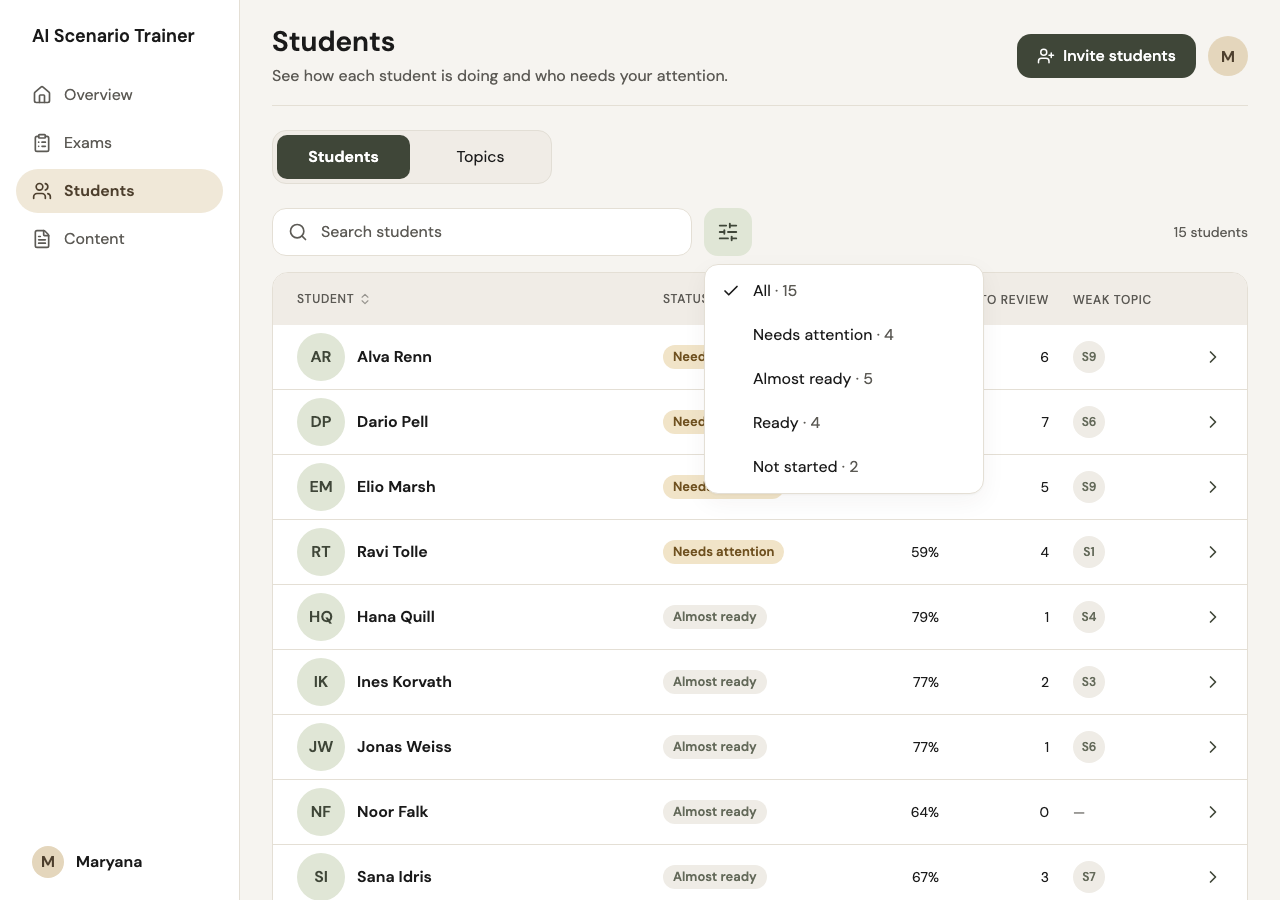
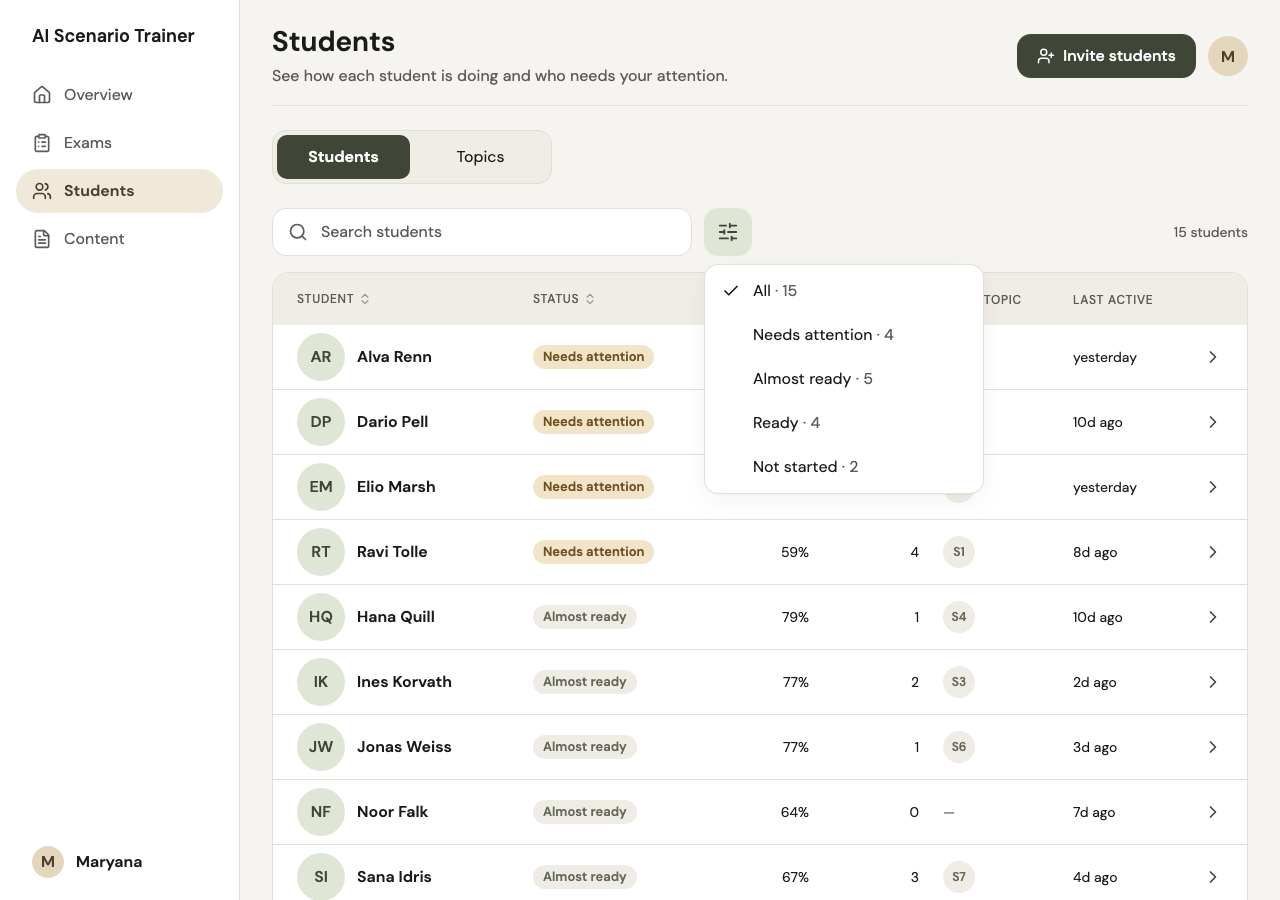
test: checks, pictures and docs for the student detail and the leftovers

diff --git a/e2e/visual/desktop-detail.spec.ts b/e2e/visual/desktop-detail.spec.ts
@@ -1,0 +1,239 @@
+import { expect, test } from "@playwright/test";
+import type { Page } from "@playwright/test";
+import { prepare } from "./routes";
+
+/** The student detail, the topic students table and the small leftovers (DESIGN.md: Responsive instructor, step 4). */
+test.use({ reducedMotion: "reduce" });
+
+const detail = "/instructor/students/stu-02";
+const open = async (page: Page, width: number, path: string, ready = "[data-student-header]") => {
+  await page.setViewportSize({ width, height: 900 });
+  await prepare(page, "instructor");
+  await page.goto(path);
+  await page.locator(ready).first().waitFor();
+  await page.waitForTimeout(300);
+};
+const summary = (page: Page) =>
+  page.evaluate(() => ({
+    name: document.querySelector("[data-student-name]")?.textContent,
+    field: document.querySelector("[data-field-line]")?.textContent,
+    last: document.querySelector("[data-last-active]")?.textContent,
+    readiness: document.querySelector("[data-readiness-number]")?.textContent,
+    pass: document.querySelector("[data-pass-mark]")?.textContent,
+    practice: document.querySelector("[data-practice]")?.textContent,
+  }));
+
+test.describe("Student detail", () => {
+  test("1280px: two columns, the left one 340px wide, the name as the title, the status chip", async ({
+    page,
+  }) => {
+    await open(page, 1280, detail);
+    const left = await page.locator("[data-student-header]").boundingBox();
+    const right = await page.locator("[data-topic-group]").first().boundingBox();
+    expect(left?.width).toBe(340);
+    expect(left && right && right.x >= left.x + left.width + 23).toBe(true);
+    await expect(page.locator("main h1")).toHaveText(/Tomas Verel/, { useInnerText: true });
+    await expect(
+      page
+        .locator(
+          "[data-page-header-band] [data-status-chip], [data-page-header-band] .type-caption",
+        )
+        .first(),
+    ).toBeVisible();
+    await expect(
+      page.locator("[data-header-slot]").getByRole("button", { name: "Send reminder" }),
+    ).toBeVisible();
+  });
+
+  test("the left column is sticky", async ({ page }) => {
+    await open(page, 1280, detail);
+    const card = page.locator("[data-student-header]");
+    const column = card.locator("xpath=..");
+    await expect(column).toHaveCSS("position", "sticky");
+    const before = (await card.boundingBox())!.y;
+    await page.mouse.wheel(0, 400);
+    await page.waitForTimeout(200);
+    const after = (await card.boundingBox())!.y;
+    expect(after).toBeLessThan(before);
+    expect(after).toBeGreaterThanOrEqual(23);
+  });
+
+  test("the summary shows the same values as the phone screen", async ({ page }) => {
+    await open(page, 430, detail);
+    const phone = await summary(page);
+    await page.setViewportSize({ width: 1280, height: 900 });
+    await page.waitForTimeout(200);
+    expect(await summary(page)).toEqual(phone);
+    expect(phone.name).toBe("Tomas Verel");
+    expect(phone.readiness).toMatch(/%$/);
+  });
+
+  test("only one version is in the accessibility tree: tables at 1280, rows at 430", async ({
+    page,
+  }) => {
+    await open(page, 1280, detail);
+    await expect(page.getByRole("table")).toHaveCount(3);
+    await expect(page.locator("[data-topic-row]:visible")).toHaveCount(0);
+    await expect(page.locator("[data-exam-row]:visible")).toHaveCount(0);
+    await open(page, 430, detail);
+    await expect(page.getByRole("table")).toHaveCount(0);
+    await expect(page.locator("[data-topic-row]:visible").first()).toBeVisible();
+    await expect(page.locator("main h1")).toHaveText("Student detail", { useInnerText: true });
+    await expect(page.getByRole("button", { name: "Send reminder" })).toHaveCount(1);
+  });
+
+  test("the topic and exam tables sort, and the rows without an address are plain", async ({
+    page,
+  }) => {
+    await open(page, 1280, detail);
+    const table = page.getByRole("table", { name: /needs review/i });
+    const results = async () => table.locator("tbody tr td:nth-child(2)").allInnerTexts();
+    const ratio = (text: string) => {
+      const [a, b] = text.match(/\d+/g)!.map(Number);
+      return a / b;
+    };
+    await table.getByRole("button", { name: /Result/i }).click();
+    await expect(table.locator("thead th", { hasText: "RESULT" })).toHaveAttribute(
+      "aria-sort",
+      "ascending",
+    );
+    const asc = (await results()).map(ratio);
+    expect(asc).toEqual([...asc].sort((a, b) => a - b));
+    await table.getByRole("button", { name: /Result/i }).click();
+    const desc = (await results()).map(ratio);
+    expect(desc).toEqual([...desc].sort((a, b) => b - a));
+    // a topic row has no link and no hover look
+    await expect(table.locator("tbody a")).toHaveCount(0);
+    const exams = page.getByRole("table", { name: "Exams" });
+    await expect(exams.locator("thead th", { hasText: "STATUS" })).toBeVisible();
+  });
+
+  test("a student with no activity: the table keeps the 'Not practised yet' message", async ({
+    page,
+  }) => {
+    await open(page, 1280, "/instructor/students/stu-06");
+    await expect(page.getByText("Not practised yet").first()).toBeVisible();
+    await expect(page.locator("[data-last-active]")).toContainText("No activity yet");
+  });
+
+  test("no Primary in the header and nothing wider than its column", async ({ page }) => {
+    for (const width of [1024, 1280, 1920]) {
+      await open(page, width, detail);
+      const primaries = await page.evaluate(() =>
+        Array.from(document.querySelectorAll<HTMLElement>("main a, main button"))
+          .filter(
+            (el) =>
+              el.getClientRects().length > 0 &&
+              getComputedStyle(el).backgroundColor === "rgb(63, 70, 56)",
+          )
+          .map((el) => el.textContent?.trim()),
+      );
+      expect(primaries.length, `Primary at ${width}`).toBeLessThanOrEqual(1);
+      const over = await page.evaluate(
+        () => document.documentElement.scrollWidth > document.documentElement.clientWidth,
+      );
+      expect(over).toBe(false);
+    }
+  });
+});
+
+test.describe("Topic students table", () => {
+  const path = "/instructor/students/topic/S1";
+  test("1280px: a table with Status, In this topic and Readiness; rows open with the keyboard", async ({
+    page,
+  }) => {
+    await open(page, 1280, path, "[data-topic-summary]");
+    const table = page.getByRole("table");
+    await expect(table).toBeVisible();
+    const labels = (await table.locator("thead th").allInnerTexts()).map((l) => l.trim());
+    expect(labels).toEqual(
+      expect.arrayContaining(["STUDENT", "STATUS", "IN THIS TOPIC", "READINESS"]),
+    );
+    await expect(page.locator("[data-student]:visible")).toHaveCount(0);
+    const link = page.locator("[data-table-link]").first();
+    await link.focus();
+    await expect(page.locator("[data-table-row]").first()).toHaveCSS("outline-style", "solid");
+    await page.keyboard.press("Enter");
+    await expect(page).toHaveURL(/topic=S1&origin=topics/);
+    await expect(page.locator("[data-header-slot]")).toHaveCount(1);
+  });
+
+  test("Assign exam on this topic is in the header; 430px keeps rows and the full-width button", async ({
+    page,
+  }) => {
+    await open(page, 1280, path, "[data-topic-summary]");
+    const header = page.locator("[data-header-slot]").getByRole("link", {
+      name: "Assign exam on this topic",
+    });
+    await expect(header).toBeVisible();
+    expect((await header.boundingBox())?.height).toBe(44);
+    await open(page, 430, path, "[data-topic-summary]");
+    await expect(page.getByRole("table")).toHaveCount(0);
+    const phone = page.getByRole("link", { name: "Assign exam on this topic" });
+    await expect(phone).toHaveCount(1);
+    expect((await phone.boundingBox())?.width).toBeGreaterThan(300);
+  });
+});
+
+test.describe("Leftovers", () => {
+  test("Clear search is a centred button of auto width on desktop and full width on the phone", async ({
+    page,
+  }) => {
+    await open(page, 1280, "/instructor/students", "[data-students-table]");
+    await page.getByPlaceholder("Search students").fill("Zimmerman");
+    const button = page.getByRole("button", { name: "Clear search" }).last();
+    await expect(button).toBeVisible();
+    const box = (await button.boundingBox())!;
+    const card = (await page.locator("[data-empty=search]").boundingBox())!;
+    expect(box.width).toBeLessThan(260);
+    expect(Math.abs(box.x + box.width / 2 - (card.x + card.width / 2))).toBeLessThan(2);
+    await open(page, 430, "/instructor/students", "[data-student]");
+    await page.getByPlaceholder("Search students").fill("Zimmerman");
+    const phone = page.getByRole("button", { name: "Clear search" }).last();
+    expect((await phone.boundingBox())!.width).toBeGreaterThan(250);
+  });
+
+  test("the thresholds follow the width of the table: Weak topic from 800px, Last active from 960px", async ({
+    page,
+  }) => {
+    for (const window of [1040, 1100, 1160, 1220, 1280, 1440]) {
+      await open(page, window, "/instructor/students", "[data-students-table]");
+      const width = await page
+        .locator("[data-students-table]")
+        .evaluate((el) => el.getBoundingClientRect().width);
+      const labels = (await page.locator("[data-students-table] thead th").allInnerTexts()).map(
+        (l) => l.trim(),
+      );
+      expect(labels.includes("WEAK TOPIC"), `weak at ${window} (${width}px)`).toBe(width >= 800);
+      expect(labels.includes("LAST ACTIVE"), `last at ${window} (${width}px)`).toBe(width >= 960);
+    }
+  });
+
+  test("growing past 1024px closes the phone filter sheet and keeps the filter", async ({
+    page,
+  }) => {
+    await open(page, 430, "/instructor/students?filter=needs", "[data-student]");
+    await page.locator("[data-filter-button]").click();
+    const sheet = page.getByRole("dialog", { name: "Filter by status" });
+    await expect(sheet).toBeVisible();
+    // a draft that was not applied
+    await sheet.getByText("Ready", { exact: false }).first().click();
+    await page.setViewportSize({ width: 1280, height: 900 });
+    await expect(page.getByRole("dialog")).toHaveCount(0);
+    await expect(page).toHaveURL(/filter=needs/);
+    await expect(page.locator("[data-status-filter-chip]")).toContainText("Needs attention");
+    await expect(page.locator("[data-status-menu]")).toBeVisible();
+    await page.setViewportSize({ width: 430, height: 900 });
+    await expect(page.getByRole("dialog")).toHaveCount(0);
+    await expect(page.locator("[data-status-line]")).toContainText("Needs attention");
+  });
+
+  test("Overview: one action does not stretch or leave a gap", async ({ page }) => {
+    await open(page, 1280, "/instructor", "[data-weakest-topic]");
+    const card = await page.locator('[aria-labelledby="actions-title"] ul').boundingBox();
+    expect(card!.height).toBeLessThan(120);
+    const actions = await page.locator('[aria-labelledby="actions-title"]').boundingBox();
+    const exams = await page.locator('[aria-labelledby="exams-title"]').boundingBox();
+    expect(Math.abs(actions!.y - exams!.y)).toBeLessThan(2);
+  });
+});

diff --git a/e2e/visual/desktop-screens.spec.ts b/e2e/visual/desktop-screens.spec.ts
@@ -23,6 +23,7 @@ const shown = [
   "instructor-exams-list-new",
   "instructor-exam-assign",
   "instructor-exam-extend",
+  "instructor-topic-students",
 ];
 
 for (const width of [1024, 1280, 1440, 1920]) {
@@ -99,6 +100,32 @@ for (const width of [1024, 1280, 1440, 1920]) {
     await page.waitForTimeout(300);
     await page.screenshot({
       path: out("instructor-students-topics", width),
+      animations: "disabled",
+    });
+    await page.close();
+  });
+}
+
+for (const width of [1024, 1280, 1440, 1920]) {
+  test(`student detail states, ${width}px`, async ({ browser }) => {
+    const page = await browser.newPage({
+      viewport: { width, height: 900 },
+      reducedMotion: "reduce",
+    });
+    await prepare(page, "instructor");
+    await page.goto("/instructor/students");
+    await page.locator("[data-table-link]").first().click();
+    await page.locator("[data-student-header]").waitFor();
+    await page.waitForTimeout(400);
+    await page.screenshot({
+      path: out("instructor-student-detail-needs", width),
+      animations: "disabled",
+    });
+    await page.goto("/instructor/students/stu-06");
+    await page.locator("[data-student-header]").waitFor();
+    await page.waitForTimeout(400);
+    await page.screenshot({
+      path: out("instructor-student-detail-new", width),
       animations: "disabled",
     });
     await page.close();

diff --git a/components/InstructorStudents/InstructorStudents.test.tsx b/components/InstructorStudents/InstructorStudents.test.tsx
@@ -39,7 +39,12 @@ const people = inScope(
 const all = profiles(people, { "ana@example.com": null }, now);
 const titleOf = (id: string) => `Topic ${id}`;
 const visible = (html: string) => html.replace(/<[^>]+>/g, " ").replace(/\s+/g, " ");
-const clean = (html: string) => html.replace(/<!-- -->/g, "");
+// the phone markup: the desktop tables and the desktop-only status next to the title are tested in the desktop specs
+const clean = (html: string) =>
+  html
+    .replace(/<!-- -->/g, "")
+    .replace(/<div data-[a-z-]*table[\s\S]*?<\/table><\/div>/g, "")
+    .replace(/<div class="hidden idesk:mt-1[^>]*>[\s\S]*?<\/div>/g, "");
 
 const list = (
   filter: StudentsFilter = "all",
@@ -564,7 +569,7 @@ describe("the Student detail", () => {
 
   it("has Back and the band 'Student detail' without an avatar, then the header card with the large plain avatar (no status dot), name, field and group, last active", () => {
     expect(html).toContain('aria-label="Back to students"');
-    expect(html).toContain(">Student detail</h1>");
+    expect(html).toContain("Student detail</span>");
     expect(html).toMatch(/text-text-secondary">Readiness and results for each topic\.</);
     expect(html).not.toContain('data-avatar="true"');
     expect(html).toContain("data-student-header");

diff --git a/app/screens/page.tsx b/app/screens/page.tsx
@@ -97,12 +97,15 @@ const desktopPictures = [
   ["instructor-exam-active", "Exam detail with results (table)"],
   ["instructor-exam-new-no-results", "Exam detail, no results yet (names only)"],
   ["instructor-exam-closed", "Exam detail, closed"],
-  ["instructor-students", "Students (table)"],
+  ["instructor-students", "Students (table with extra columns)"],
   ["instructor-students-filter-open", "Students, status menu open"],
   ["instructor-students-filtered", "Students, status filter chip"],
   ["instructor-students-no-results", "Students, no results"],
   ["instructor-students-topics", "Students, Topics view"],
-  ["instructor-student-detail", "A student (not redesigned yet)"],
+  ["instructor-topic-students", "Topic students (table)"],
+  ["instructor-student-detail-needs", "Student detail, topics to review"],
+  ["instructor-student-detail", "Student detail, nothing to review"],
+  ["instructor-student-detail-new", "Student detail, no activity yet"],
   ["instructor-exam-assign", "Assign exam (pinned bar, dialog in step 6)"],
   ["instructor-content-with-topic", "Content (not converted yet)"],
   ["instructor-content-import-result", "Import result (not converted yet)"],

diff --git a/e2e/instructor-students.spec.ts b/e2e/instructor-students.spec.ts
@@ -788,7 +788,9 @@ for (const width of [360, 430]) {
     }) => {
       await page.goto("/instructor/students");
       await rows(page).first().click();
-      await expect(page.getByRole("heading", { level: 1 })).toHaveText("Student detail");
+      await expect(page.getByRole("heading", { level: 1 })).toHaveText("Student detail", {
+        useInnerText: true,
+      });
       await expect(page.getByText("Readiness and results for each topic.")).toBeVisible();
       await expect(page.locator("[data-avatar]:visible")).toHaveCount(0);
       const header = page.locator("[data-student-header]");

diff --git a/e2e/visual/desktop-tables.spec.ts b/e2e/visual/desktop-tables.spec.ts
@@ -114,7 +114,7 @@ test.describe("Students table", () => {
   }) => {
     for (const [width, weak, last] of [
       [1024, false, false],
-      [1280, true, false],
+      [1280, true, true],
       [1440, true, true],
       [1920, true, true],
     ] as const) {

diff --git a/DESIGN.md b/DESIGN.md
@@ -1134,3 +1134,11 @@ The values below are read from `app/globals.css`. When a brief or an older note 
 | Neutral chip text | `--chip-neutral-ink` | #646A5A | #6B7062 (too light on the neutral chip) |
 | Light border of an active control | `--hover-stroke` | #C9D3B8 | the old `--chip-active-stroke` no longer exists; the same value is now `--hover-stroke` |
 | Active filter button | `--filter-active` | #D3DCC3 | same |
+
+## Responsive instructor, step 4: the student detail and the leftovers (3 Nov 2026)
+- Student detail (from 1024px): the shared header with the Back circle, the student's NAME as the title (the phone keeps "Student detail"), the subtitle and the student's status chip under it; "Send reminder" (Secondary) is in the header actions area. Two columns with a 24px gap: the left one, 340px wide and sticky, holds the header card (the 64px initials, name, field and group, last active) and the READINESS card (the percentage, the week comparison, the ring, the pass mark and the practice line); the right one holds the same sections as the phone, one under the other. NEEDS REVIEW and NOTHING TO REVIEW and EXAMS are shared DataTables here (Topic and Result; Exam, Status and Details); a row that has no address (a topic, an exam without a certificate) is a plain row with no link, no hover and no chevron; a Passed exam with a certificate is a link with the certificate mark. Empty messages ("Not practised yet", "No activity yet") are unchanged. The phone keeps its cards and rows.
+- Topic students (from 1024px): the DataTable with Student, Status, In this topic ("16 of 26 correct") and Readiness (hidden below 800px); "Assign exam on this topic" is in the header; the summary card is at most 560px wide.
+- Students table: Weak topic is shown from a table width of 800px and Last active from 960px (container rules).
+- "Clear search" in the no-results card is a centred Secondary button of auto width on desktop (full width on the phone).
+- The Overview "Needs your action" card keeps its own height and the top alignment, with one item or three.
+- Resize: when the window grows past 1024px while the phone filter sheet is open, the sheet closes and applies nothing; the filter in the address is kept; resizing back does not reopen it.
